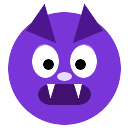
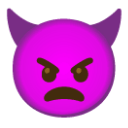
Fix Lucio skin and animal movement

diff --git a/src/objects/Animal.js b/src/objects/Animal.js
@@ -69,7 +69,9 @@ export default class Animal extends Phaser.Physics.Arcade.Sprite {
 
   snapToWalkPlatform() {
     if (!this.walkPlatform) return;
+    this.x = Phaser.Math.Clamp(this.x, this.walkMinX, this.walkMaxX);
     this.y = this.walkPlatform.y - this.displayHeight / 2 + 1;
+    this.setVelocityY(0);
     this.body.updateFromGameObject?.();
   }
 
@@ -82,15 +84,24 @@ export default class Animal extends Phaser.Physics.Arcade.Sprite {
       this.setVelocityY(-80);
       this.setVelocityX(this.dir * this.speed * 3);
     } else {
-      this.setVelocityX(this.dir * this.speed * 4);
+      const targetX = this.walkPlatform
+        ? Phaser.Math.Clamp(this.x + this.dir * 48, this.walkMinX, this.walkMaxX)
+        : this.x + this.dir * 36;
+      this.setVelocityX(0);
       this.setVelocityY(0);
       this.scene.tweens.add({
         targets: this,
+        x: targetX,
         y: this.y - 16,
-        duration: 160,
+        duration: 220,
         yoyo: true,
         ease: 'Sine.easeOut',
-        onComplete: () => this.snapToWalkPlatform(),
+        onComplete: () => {
+          this.snapToWalkPlatform();
+          if (this.walkPlatform && (this.x <= this.walkMinX + 2 || this.x >= this.walkMaxX - 2)) {
+            this.dir *= -1;
+          }
+        },
       });
     }
     this.scene.time.delayedCall(2000, () => {
@@ -103,6 +114,9 @@ export default class Animal extends Phaser.Physics.Arcade.Sprite {
   returnToNormal() {
     this.scared = false;
     this.clearTint();
+    this.setVelocityX(0);
+    this.setVelocityY(0);
+    this.snapToWalkPlatform();
     // Bounce back after regrowth
     this.scene.tweens.add({
       targets: this,
@@ -142,6 +156,7 @@ export default class Animal extends Phaser.Physics.Arcade.Sprite {
       }
       this.setVelocityX(this.dir * this.speed);
       this.setVelocityY(0);
+      if (this.walkPlatform) this.x = Phaser.Math.Clamp(this.x, this.walkMinX, this.walkMaxX);
     }
 
     this.setFlipX(this.dir < 0);

diff --git a/src/scenes/GameScene.js b/src/scenes/GameScene.js
@@ -48,14 +48,9 @@ export default class GameScene extends Phaser.Scene {
 
     // ── Animals ───────────────────────────────────────────────
     this.animals = [];
-    this.animalGroup = this.physics.add.group();
     for (const ad of ld.animals) {
       const a = new Animal(this, ad.x, ad.y, ad.type);
       this.animals.push(a);
-      if (!a.flying) this.animalGroup.add(a);
-    }
-    if (this.animalGroup.getLength() > 0) {
-      this.physics.add.collider(this.animalGroup, this.platforms);
     }
 
     // ── Machines ──────────────────────────────────────────────